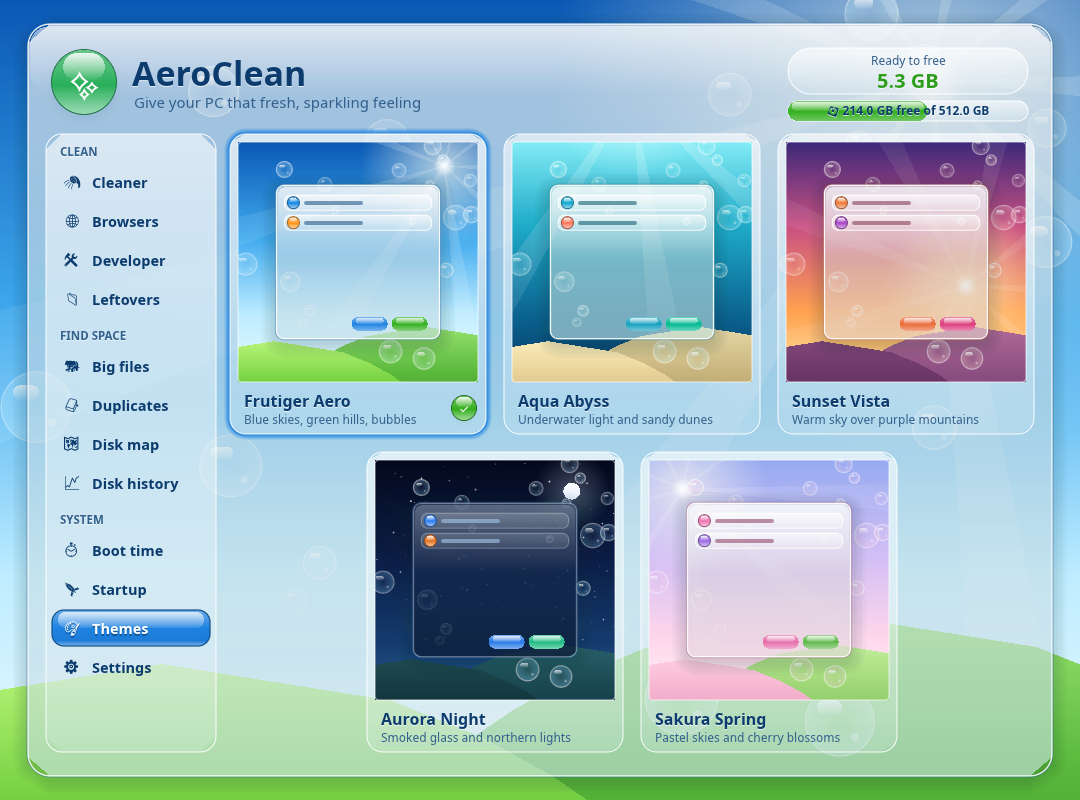
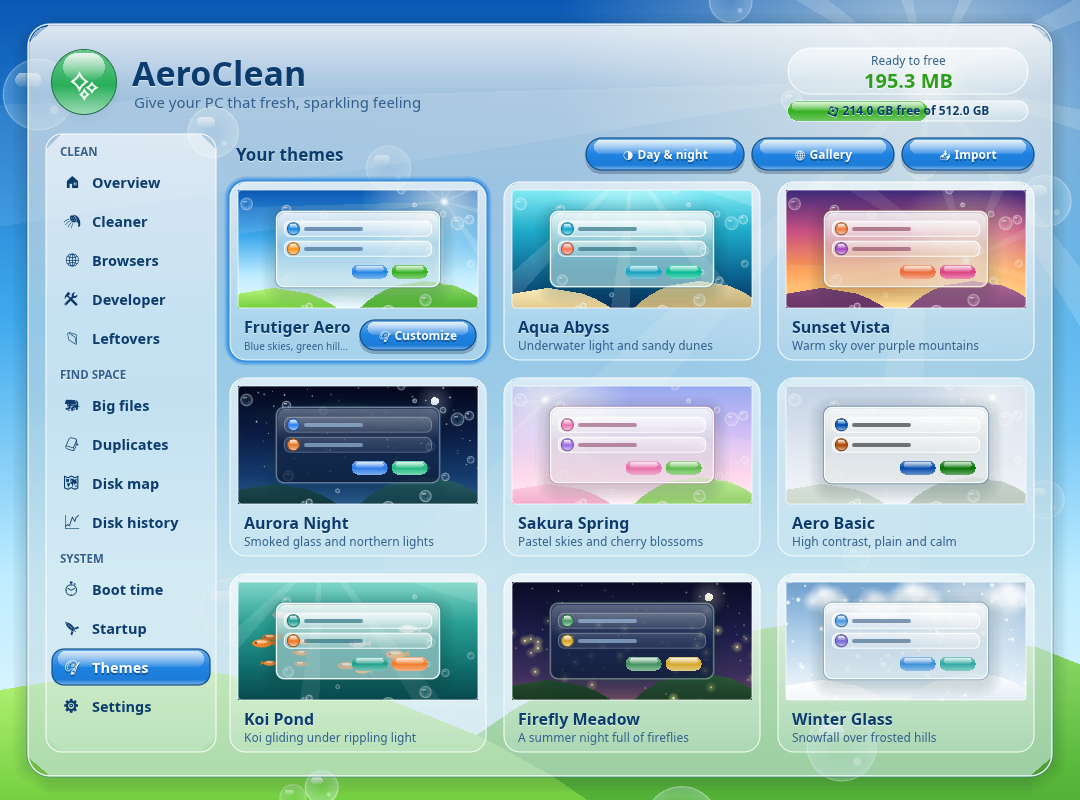
Release v2.2.0

diff --git a/ROADMAP.md b/ROADMAP.md
@@ -100,6 +100,17 @@
 - **Accessibility:** screen reader labels, the high-contrast Aero Basic theme, UI scale up to 200%
 - **Languages:** translations moved to `lang/*.txt`; Spanish, German and Portuguese
 
+**v2.2 – Make it yours, get it everywhere**
+- **Themes are files:** a `.aerotheme` format with inheritance, 9 built-in themes and scenes built from layers (sky, sun, clouds, fish, fireflies, snow, pictures...)
+- **Theme Studio:** a live editor with harmonies, an eyedropper, contrast badges, a color-blindness preview, layer editing, undo and Randomize
+- **Share themes:** export with pictures inside, import or drag a file in, and a community gallery with live previews
+- **Day and night:** switch themes with your system's dark mode, on a schedule, or at sunrise and sunset, with a crossfade
+- **Themes from a picture:** light, dark and vivid themes from any photo, with readable text guaranteed
+- **Live touches (optional):** seasons, a sun that follows the time of day, and fun dates
+- **Sounds (optional):** an original synthesized sound pack, per event, with a volume setting
+- **Settings 2.0:** one readable `settings.toml`, migrated automatically
+- **Flatpak**, a **signed APT repository** (`apt upgrade` keeps AeroClean up to date), and ready-made **winget** and **Homebrew** files
+
 ---
 
 # 🗺 Road to 2.0
